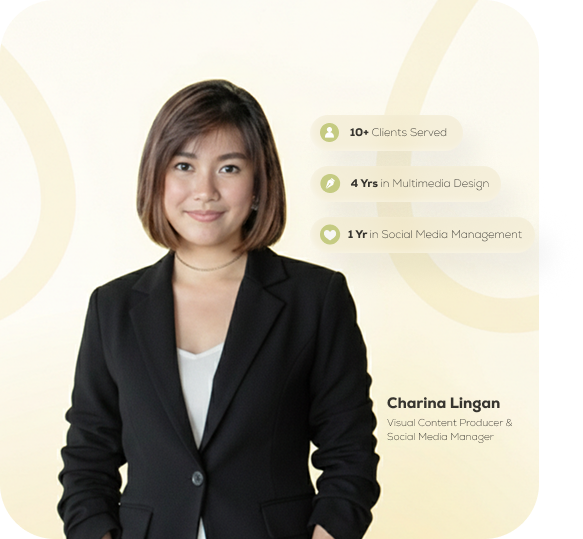
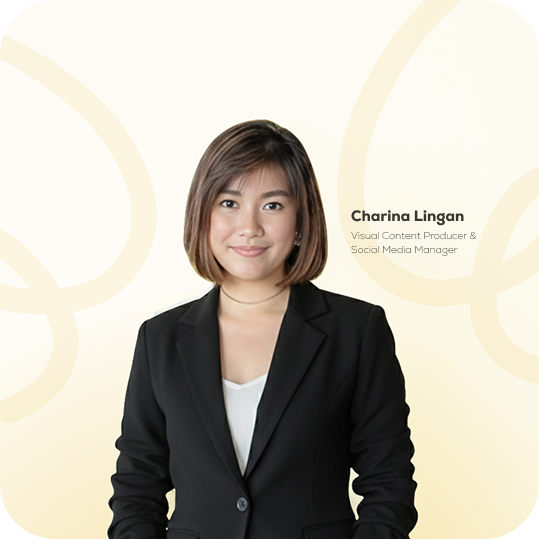
Revise services title text responsiveness, change profile picture, and update profile tag text content.

diff --git a/portfolio-website/src/styles/Services.css b/portfolio-website/src/styles/Services.css
@@ -141,7 +141,7 @@
 /* ===================== RESPONSIVE - TABLET (768px) ===================== */
 @media screen and (max-width: 768px) {
   .services-hero {
-    padding: 80px 30px 60px;
+    padding: 110px 25px 60px;
   }
 
   .services-hero-title {
@@ -190,7 +190,7 @@
 /* ===================== RESPONSIVE - MOBILE LARGE (480px) ===================== */
 @media screen and (max-width: 480px) {
   .services-hero {
-    padding: 60px 20px 50px;
+    padding: 100px 20px 50px;
   }
 
   .services-hero-title {
@@ -241,11 +241,11 @@
 /* ===================== RESPONSIVE - MOBILE SMALL (320px) ===================== */
 @media screen and (max-width: 320px) {
   .services-hero {
-    padding: 50px 15px 40px;
+    padding: 90px 15px 40px;
   }
 
   .services-hero-title {
-    font-size: 2.2rem;
+    font-size: 30px;
   }
 
   .services-grid-section {
@@ -295,12 +295,12 @@
 /* ===================== RESPONSIVE - MINIMUM 200px ===================== */
 @media screen and (max-width: 200px) {
   .services-hero {
-    padding: 40px 10px 30px;
+    padding: 80px 10px 35px;
   }
 
   .services-hero-title {
     font-size: 1.5rem;
-    letter-spacing: 0.05em;
+
   }
 
   .services-grid-section {

diff --git a/portfolio-website/src/pages/Home.jsx b/portfolio-website/src/pages/Home.jsx
@@ -629,14 +629,15 @@ const Home = () => {
               <div className="profile-container">
                 <img src={assets.profile} alt="Profile" draggable={false}/>
                 <div className="profile-tag tag-1">
-                  <span>⭐</span> Great Designs
+                  <span>⭐</span> 10+ Clients Served
                 </div>
                 <div className="profile-tag tag-2">
-                  <span>🎨</span> Art
+                  <span>✨</span> 1 Yr in Social Media Management
                 </div>
                 <div className="profile-tag tag-3">
-                  <span>✨</span> Charina Lingan
+                  <span>🎨</span> 4+ Yrs in Multimedia Design
                 </div>
+                
               </div>
             </div>
           </div>

diff --git a/portfolio-website/src/styles/Home.css b/portfolio-website/src/styles/Home.css
@@ -247,7 +247,7 @@
 .profile-tag {
   position: absolute;
   padding: 12px 20px;
-  background: #ffffff50;
+  background: rgba(255, 255, 255, 0.541);
   border-radius: 50px;
   box-shadow: 0 8px 20px rgba(0, 0, 0, 0.1);
   font-size: 14px;
